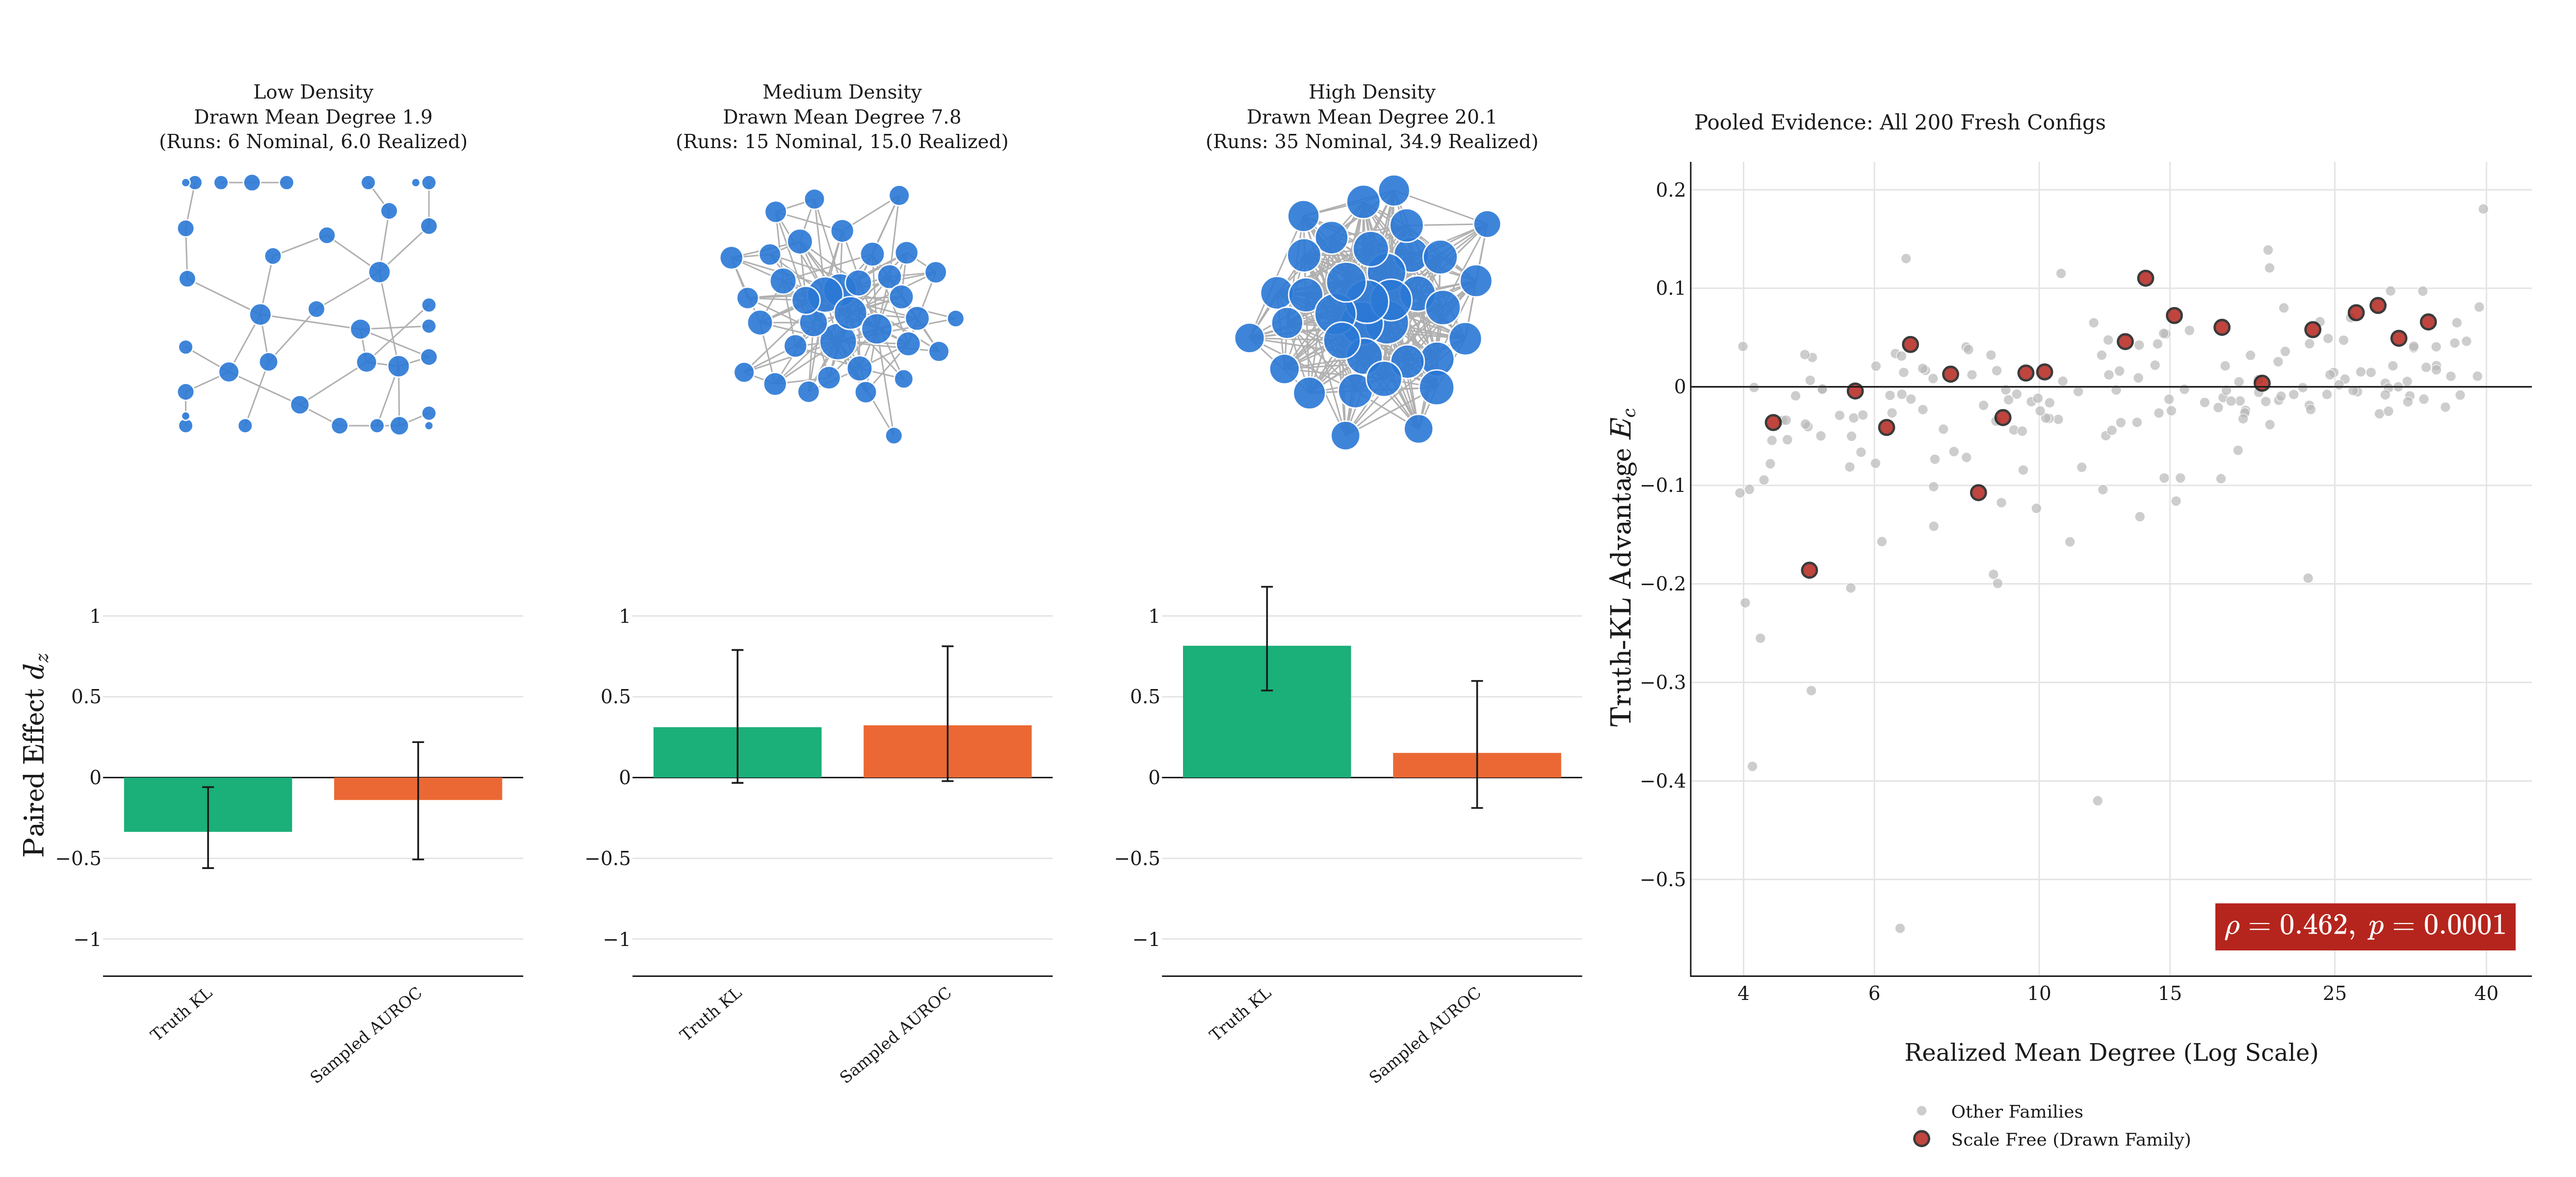
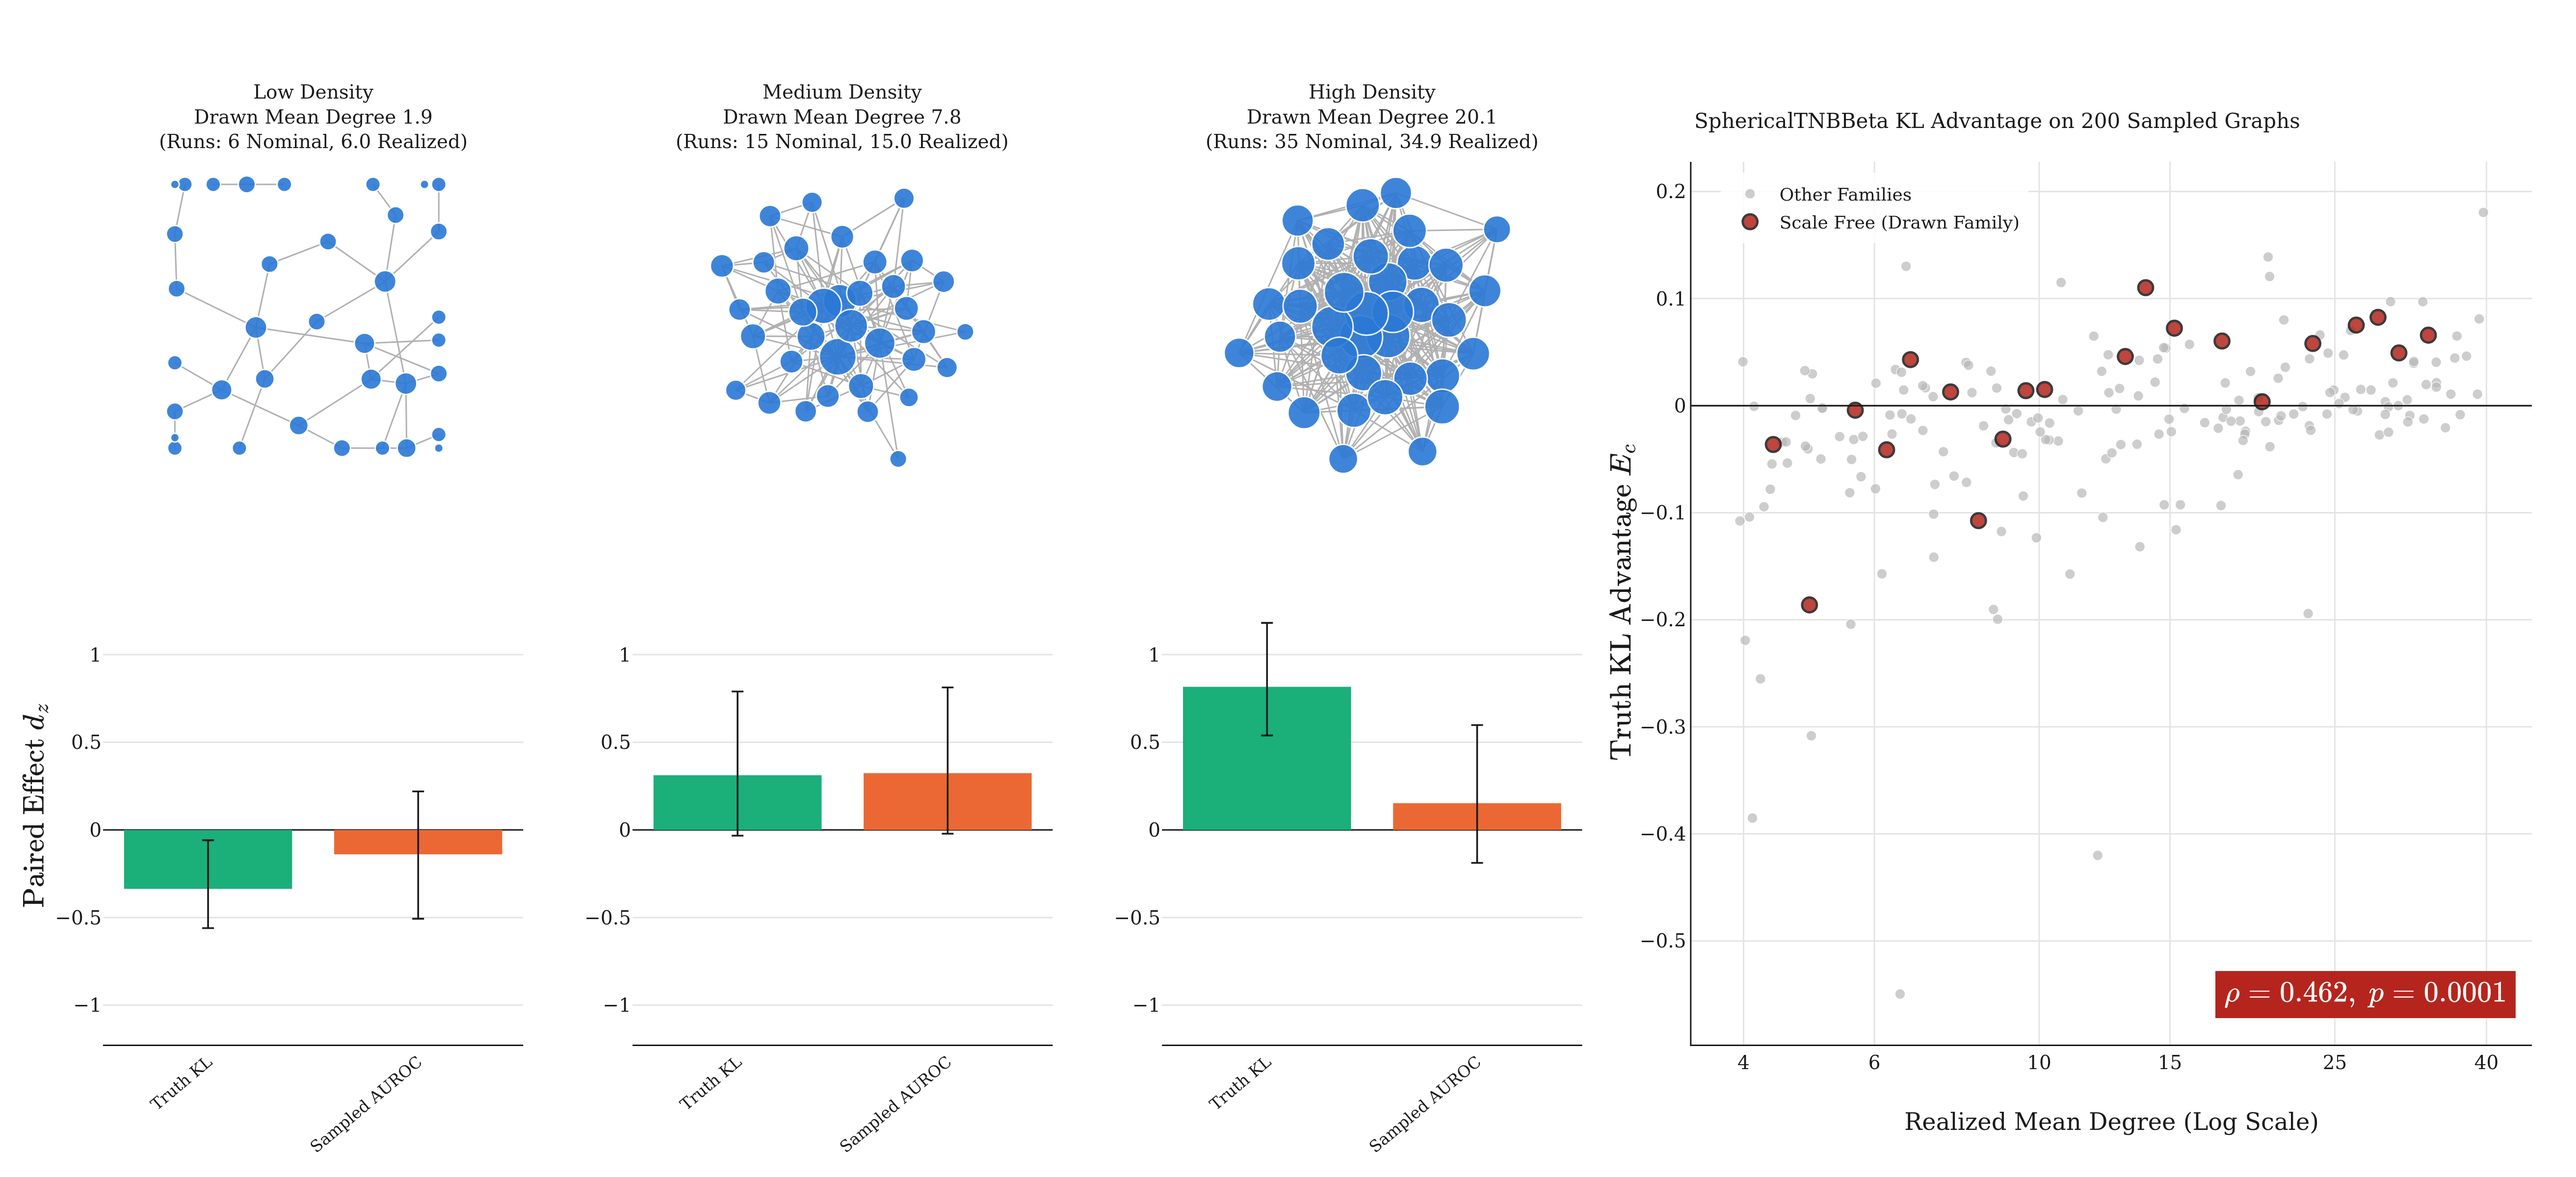
Density figure: legend inside the scatter, new scatter title, consistent Truth KL spelling

diff --git a/apps/eval/scale_free_density_figure.py b/apps/eval/scale_free_density_figure.py
@@ -559,6 +559,9 @@ def build_figure(results: dict[str, Any]) -> go.Figure:
         _add_drawing(figure, level, column, results)
         _add_bars(figure, level, column, results, bounds, legend=False)
     _add_pooled(figure, results["pooled"])
+    layout: Any = figure.layout
+    scatter_x = layout.xaxis4.domain
+    scatter_y = layout.yaxis4.domain
     figure.update_layout(
         template=TEMPLATE_NAME,
         font={"family": FONT_FAMILY, "color": INK, "size": 13},
@@ -566,13 +569,14 @@ def build_figure(results: dict[str, Any]) -> go.Figure:
         height=800,
         plot_bgcolor="white",
         legend={
-            "orientation": "h",
+            "orientation": "v",
+            "xanchor": "left",
             "yanchor": "top",
-            "y": -0.14,
-            "x": 0.8,
-            "xanchor": "center",
+            "x": scatter_x[0] + 0.012,
+            "y": scatter_y[1] - 0.012,
+            "bgcolor": "rgba(255,255,255,0.85)",
         },
-        margin={"l": 70, "r": 30, "t": 110, "b": 120},
+        margin={"l": 70, "r": 30, "t": 110, "b": 90},
         barmode="overlay",
     )
     return figure
@@ -773,14 +777,14 @@ def _add_pooled(figure: go.Figure, pooled: dict[str, Any]) -> None:
         col=4,
     )
     figure.update_yaxes(
-        title_text=r"$\text{Truth-KL Advantage}\ E_c$",
+        title_text=r"$\text{Truth KL Advantage}\ E_c$",
         gridcolor=GRID,
         linecolor=INK,
         row=1,
         col=4,
     )
     figure.add_annotation(
-        text=f"Pooled Evidence: All {len(points)} Fresh Configs",
+        text=f"SphericalTNBBeta KL Advantage on {len(points)} Sampled Graphs",
         xref="x4 domain",
         yref="y4 domain",
         x=0.0,

diff --git a/tests/apps/test_scale_free_density_figure.py b/tests/apps/test_scale_free_density_figure.py
@@ -162,8 +162,9 @@ def test_drawn_graphs_get_denser_with_the_level() -> None:
 def test_figure_layout_matches_the_preregistration() -> None:
     figure = sdf.build_figure(_results(0.1))
     layout: Any = figure.layout
-    assert layout.legend.orientation == "h"
-    assert layout.legend.y < 0
+    x_domain, y_domain = layout.xaxis4.domain, layout.yaxis4.domain
+    assert x_domain[0] < layout.legend.x < x_domain[1]  # legend sits inside the scatter
+    assert y_domain[0] < layout.legend.y <= y_domain[1]
     assert layout.template.layout.font.family == sdf.FONT_FAMILY
     bars = [t for t in cast("list[Any]", list(figure.data)) if t.type == "bar"]
     assert len(bars) == 6  # two groups x three levels
